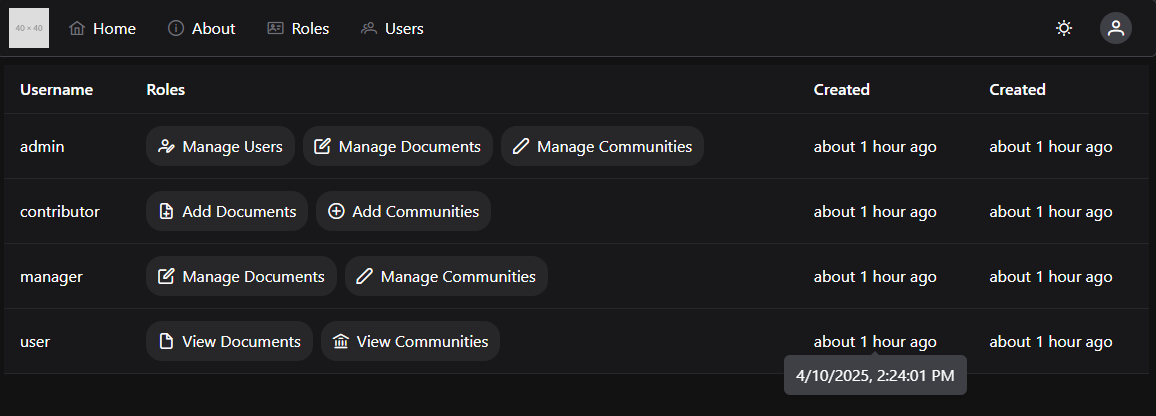
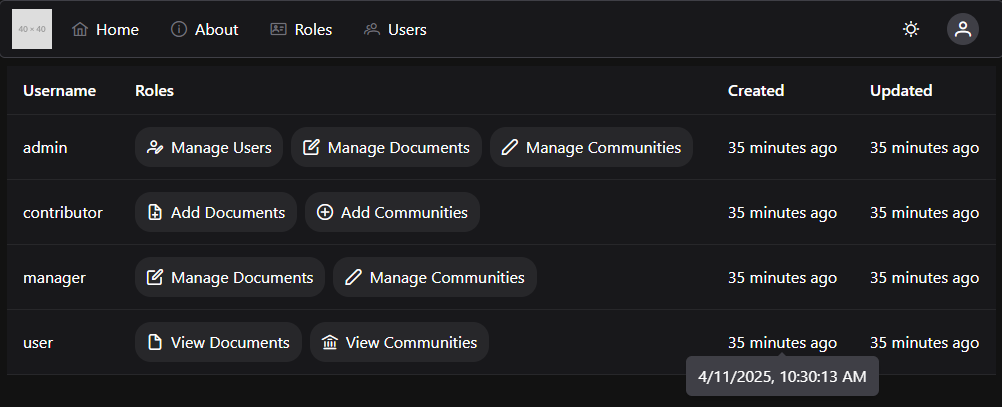
Users Data Table

diff --git a/content/x-examples/06-vue-crud-app/02-users-table.md b/content/x-examples/06-vue-crud-app/02-users-table.md
@@ -263,6 +263,8 @@ const roles = {
 
 This component includes a constant lookup table that provides some additional information about each role, based on the role's ID. This allows us to assign a user-friendly name and icon to each role in our frontend application. In fact, if we are internationalizing this application, we could also use this component to translate the role names into localized forms here. 
 
+We are also seeing a great example of [Vue Props](https://vuejs.org/guide/components/props.html) in this component. Props allow us to pass data from one component down into another sub-component. It is a one-way data connection, which is very important to remember. 
+
 We can update our `UsersList.vue` component to use this new `RoleChip` component very easily:
 
 ```vue {title="src/components/users/UsersList.vue" hl_lines="12 23"}
@@ -366,8 +368,335 @@ We can even hover over one of the formatted dates to see the actual date in a to
 
 ## Sorting
 
-## Searching
+We can also enable [Sorting](https://primevue.org/datatable/#sort) in our PrimeVue DataTable by simply adding the `sortable` property to any columns we'd like to sort. For this example, let's add that to the `username`, `createdAt` and `updatedAt` fields:
+
+```vue {title="src/components/users/UsersList.vue" hl_lines="3 11 18"}
+<template>
+  <DataTable :value="users">
+    <Column field="username" header="Username" sortable />
+    <Column field="roles" header="Roles">
+      <template #body="{ data }">
+        <div class="flex gap-2">
+          <RoleChip v-for="role in data.roles" :key="role.id" :role="role"  />
+        </div>
+      </template>
+    </Column>
+    <Column field="createdAt" header="Created" sortable >
+      <template #body="{ data }">
+        <span v-tooltip.bottom="new Date(data.createdAt).toLocaleString()">
+          {{ formatDistance(new Date(data.createdAt), new Date(), { addSuffix: true }) }}
+        </span>
+      </template>
+    </Column>
+    <Column field="updatedAt" header="Updated" sortable >
+      <template #body="{ data }">
+        <span v-tooltip.bottom="new Date(data.updatedAt).toLocaleString()">
+          {{ formatDistance(new Date(data.updatedAt), new Date(), { addSuffix: true }) }}
+        </span>
+      </template>
+    </Column>
+  </DataTable>
+</template>
+```
+
+![Users Table Sorting](/images/examples/06/vue_crud_sort.gif)
+
+We can even define a default column and sort order for our table:
+
+```vue {title="src/components/users/UsersList.vue" hl_lines="2"}
+<template>
+  <DataTable :value="users" sortField="username" :sortOrder="1">
+    <!-- other code omitted here -->
+  </DataTable>
+</template>
+```
+## Global Filtering
+
+Another great feature of PrimeVue's DataTable is the ability to quickly add [Filtering](https://primevue.org/datatable/#filter) features. We can define a global filter to allow us to search for a user by the username by simply defining a `global` filter set and a list of fields to search. We should also add a quick search box to the top of our DataTable template to accept this input.
+
+```vue {title="src/components/users/UsersList.vue" hl_lines="13-14 19-22 26-43"}
+<script setup>
+/**
+ * @file Users List Component
+ * @author Russell Feldhausen <russfeld@ksu.edu>
+ */
+
+// Import Libraries
+import { ref } from 'vue'
+import { api } from '@/configs/api'
+import { formatDistance } from 'date-fns';
+import DataTable from 'primevue/datatable';
+import Column from 'primevue/column';
+import { IconField, InputIcon, InputText } from 'primevue';
+import { FilterMatchMode } from '@primevue/core/api';
+import RoleChip from '../roles/RoleChip.vue';
+
+// -=-=- other code omitted here -=-=-
+
+// Setup Filters
+const filters = ref({
+  global: { value: null, matchMode: FilterMatchMode.CONTAINS },
+})
+</script>
+
+<template>
+  <DataTable
+    :value="users"
+    v-model:filters="filters"
+    :globalFilterFields="['username']"
+    filterDisplay="menu"
+    sortField="username"
+    :sortOrder="1"
+  >
+    <template #header>
+      <div class="flex justify-end">
+        <IconField>
+          <InputIcon>
+              <i class="pi pi-search" />
+          </InputIcon>
+          <InputText v-model="filters['global'].value" placeholder="Keyword Search" />
+        </IconField>
+      </div>
+    </template>
+    <!-- other code omitted here -->
+  </DataTable>
+</template>
+```
+
+With this in place, we can now type in any username and filter the table for that username:
+
+![Users Table Filtering Usernames](/images/examples/06/vue_crud_filter1.gif)
+
+## Column Filtering
+
+We can also do more advanced filtering, such as allowing users to select roles that they'd like to search for. This is a bit more complex, as it requires us to first write our own custom filter function, and then we also have to add a small template for setting the filter options.
+
+First, let's create a new custom filter function in our `<script setup>` section. We'll also need to get a list of the available roles in our system, so we can add that to this section as well.:
+
+```vue {title="src/components/users/UsersList.vue" hl_lines="14 19 31-39 41-51 56"}
+<script setup>
+/**
+ * @file Users List Component
+ * @author Russell Feldhausen <russfeld@ksu.edu>
+ */
+
+// Import Libraries
+import { ref } from 'vue'
+import { api } from '@/configs/api'
+import { formatDistance } from 'date-fns';
+import DataTable from 'primevue/datatable';
+import Column from 'primevue/column';
+import { IconField, InputIcon, InputText } from 'primevue';
+import { FilterMatchMode, FilterService } from '@primevue/core/api';
+import RoleChip from '../roles/RoleChip.vue';
+
+// Create Reactive State
+const users = ref([])
+const roles = ref([])
+
+// Load Users
+api
+  .get('/api/v1/users')
+  .then(function (response) {
+    users.value = response.data
+  })
+  .catch(function (error) {
+    console.log(error)
+  })
+
+// Load Roles
+api
+  .get('/api/v1/roles')
+  .then(function (response) {
+    roles.value = response.data
+  })
+  .catch(function (error) {
+    console.log(error)
+  })
+
+// Custom Filter
+FilterService.register("filterArrayOfObjectsById", (targetArray, sourceArray) => {
+  if (!sourceArray || sourceArray.length == 0) {
+    return true
+  }
+  let found = true
+  sourceArray.forEach((s) => {
+    found = found && targetArray.some((o) => o.id === s.id)
+  })
+  return found
+})
+
+// Setup Filters
+const filters = ref({
+  global: { value: null, matchMode: FilterMatchMode.CONTAINS },
+  roles: { value: null, matchMode: "filterArrayOfObjectsById"}
+})
+</script>
+```
+
+The `filterArrayOfObjectsById` function should look somewhat familiar - we have an array of roles we want to search for, and we want to ensure that the user has all of these roles (this is different than some of our other functions that look like this, where we want the user to have at least one of the roles). 
+
+Now, to make this visible in our template, we add a special `<template #filter>` slot to the `Column` that is displaying the roles. We also set the `filterDisplay` option on the top-level `DataTable` component to `"menu"` to allow us to have pop-up menus for filtering. For this menu, we're going to use the [PrimeVue Multiselect](https://primevue.org/multiselect/) component, so we'll need to import it:
+
+```vue {title="src/components/users/UsersList.vue" hl_lines="13 26 31 37-48"}
+<script setup>
+/**
+ * @file Users List Component
+ * @author Russell Feldhausen <russfeld@ksu.edu>
+ */
+
+// Import Libraries
+import { ref } from 'vue'
+import { api } from '@/configs/api'
+import { formatDistance } from 'date-fns';
+import DataTable from 'primevue/datatable';
+import Column from 'primevue/column';
+import { IconField, InputIcon, InputText, MultiSelect } from 'primevue';
+import { FilterMatchMode, FilterService } from '@primevue/core/api';
+import RoleChip from '../roles/RoleChip.vue';
+
+// -=-=- other code omitted here -=-=-
+
+</script>
+
+<template>
+  <DataTable
+    :value="users"
+    v-model:filters="filters"
+    :globalFilterFields="['username']"
+    filterDisplay="menu"
+    sortField="username"
+    :sortOrder="1"
+  >
+    <!-- other code omitted here -->
+    <Column filterField="roles" :showFilterMatchModes="false" header="Roles">
+      <template #body="{ data }">
+        <div class="flex gap-2">
+          <RoleChip v-for="role in data.roles" :key="role.id" :role="role" />
+        </div>
+      </template>
+      <template #filter="{ filterModel }">
+        <MultiSelect
+          v-model="filterModel.value"
+          :options="roles"
+          optionLabel="role"
+          placeholder="Any"
+        >
+          <template #option="slotProps">
+            <RoleChip :role="slotProps.option" />
+          </template>
+        </MultiSelect>
+      </template>
+    </Column>
+    <!-- other code omitted here -->
+  </DataTable>
+</template>
+```
+
+With all of this in place, we can now filter based on roles as well:
+
+![Users Table Filtering Roles](/images/examples/06/vue_crud_filter2.gif)
 
 ## Buttons
 
+Finally, let's work on adding some buttons to our table that will allow us to create new users, edit existing users, and delete users. 
 
+First, let's add a simple button to create a new user at the top of our DataTable component. We'll use a [PrimeVue Button](https://primevue.org/button/) component for this, and we'll also need to import the Vue Router so we can route to a different view when this is clicked.
+
+```vue {title="src/components/users/UsersList.vue" hl_lines="16-18 33-39"}
+<script setup>
+/**
+ * @file Users List Component
+ * @author Russell Feldhausen <russfeld@ksu.edu>
+ */
+
+// Import Libraries
+import { ref } from 'vue'
+import { api } from '@/configs/api'
+import { formatDistance } from 'date-fns'
+import DataTable from 'primevue/datatable'
+import Column from 'primevue/column'
+import { IconField, InputIcon, InputText, MultiSelect } from 'primevue'
+import { FilterMatchMode, FilterService } from '@primevue/core/api'
+import RoleChip from '../roles/RoleChip.vue'
+import Button from 'primevue/button'
+import { useRouter } from 'vue-router'
+const router = useRouter()
+
+// -=-=- other code omitted here -=-=-
+</script>
+
+<template>
+  <DataTable
+    :value="users"
+    v-model:filters="filters"
+    :globalFilterFields="['username']"
+    filterDisplay="menu"
+    sortField="username"
+    :sortOrder="1"
+  >
+    <template #header>
+      <div class="flex justify-between">
+        <Button
+          label="New User"
+          icon="pi pi-user-plus"
+          severity="success"
+          @click="router.push({ name: 'newuser' })"
+        />
+        <IconField>
+          <InputIcon>
+            <i class="pi pi-search" />
+          </InputIcon>
+          <InputText v-model="filters['global'].value" placeholder="Keyword Search" />
+        </IconField>
+      </div>
+    </template>
+    <!-- other code omitted here -->
+  </DataTable>
+</template>
+```
+
+When we click on this button, we'll be sent to the `newuser` route in our application. This route doesn't currently exist, but we'll add it later in this tutorial.
+
+Likewise, we want to add buttons to allow us to edit and delete each user's account, so let's add a new column to our DataTable with those buttons as well.
+
+```vue {title="src/components/users/UsersList.vue" hl_lines="11-31"}
+<template>
+  <DataTable
+    :value="users"
+    v-model:filters="filters"
+    :globalFilterFields="['username']"
+    filterDisplay="menu"
+    sortField="username"
+    :sortOrder="1"
+  >
+    <!-- other code omitted here -->
+    <Column header="Actions" style="min-width: 8rem">
+      <template #body="slotProps">
+        <div class="flex gap-2">
+          <Button
+            icon="pi pi-pencil"
+            outlined
+            rounded
+            @click="router.push({ name: 'edituser', params: { id: slotProps.data.id } })"
+            v-tooltip.bottom="'Edit'"
+          />
+          <Button
+            icon="pi pi-trash"
+            outlined
+            rounded
+            severity="danger"
+            @click="router.push({ name: 'deleteuser', params: { id: slotProps.data.id } })"
+            v-tooltip.bottom="'Delete'"
+          />
+        </div>
+      </template>
+    </Column>
+  </DataTable>
+</template>
+```
+These buttons will direct us to the `edituser` and `deleteuser` routes, and they even include the ID of the user to be edited or deleted in the route parameters. We'll work on adding these features as well later in this tutorial. With these changes in place, our final DataTable for our users should look something like this:
+
+![Final Users Data Table](/images/examples/06/vue_crud_7.png)
+
+For the rest of this tutorial, we'll work on adding additional functionality to handle creating, editing, and deleting user accounts.

diff --git a/content/x-examples/01-express-starter/04-debug-log.md b/content/x-examples/01-express-starter/04-debug-log.md
@@ -226,7 +226,7 @@ const logger = winston.createLogger({
             format: 'YYYY-MM-DD hh:mm:ss.SSS A',
         }),
         align(),
-        printf((info) => `[${info.timestamp}] ${info.level}: ${info.stack ? info.stack : info.message}`)
+        printf((info) => `[${info.timestamp}] ${info.level}: ${info.stack ? info.message + "\n" + info.stack : info.message}`)
     ),
     // Output configuration
     transports: [new winston.transports.Console()]

diff --git a/content/x-examples/02-database/01-sequelize.md b/content/x-examples/02-database/01-sequelize.md
@@ -175,7 +175,7 @@ const logger = winston.createLogger({
     align(),
     printf(
       (info) =>
-        `[${info.timestamp}] ${info.level}: ${info.stack ? info.stack : info.message}`,
+        `[${info.timestamp}] ${info.level}: ${info.stack ? info.message + "\n" + info.stack : info.message}`,
     ),
   ),
   // Output configuration
